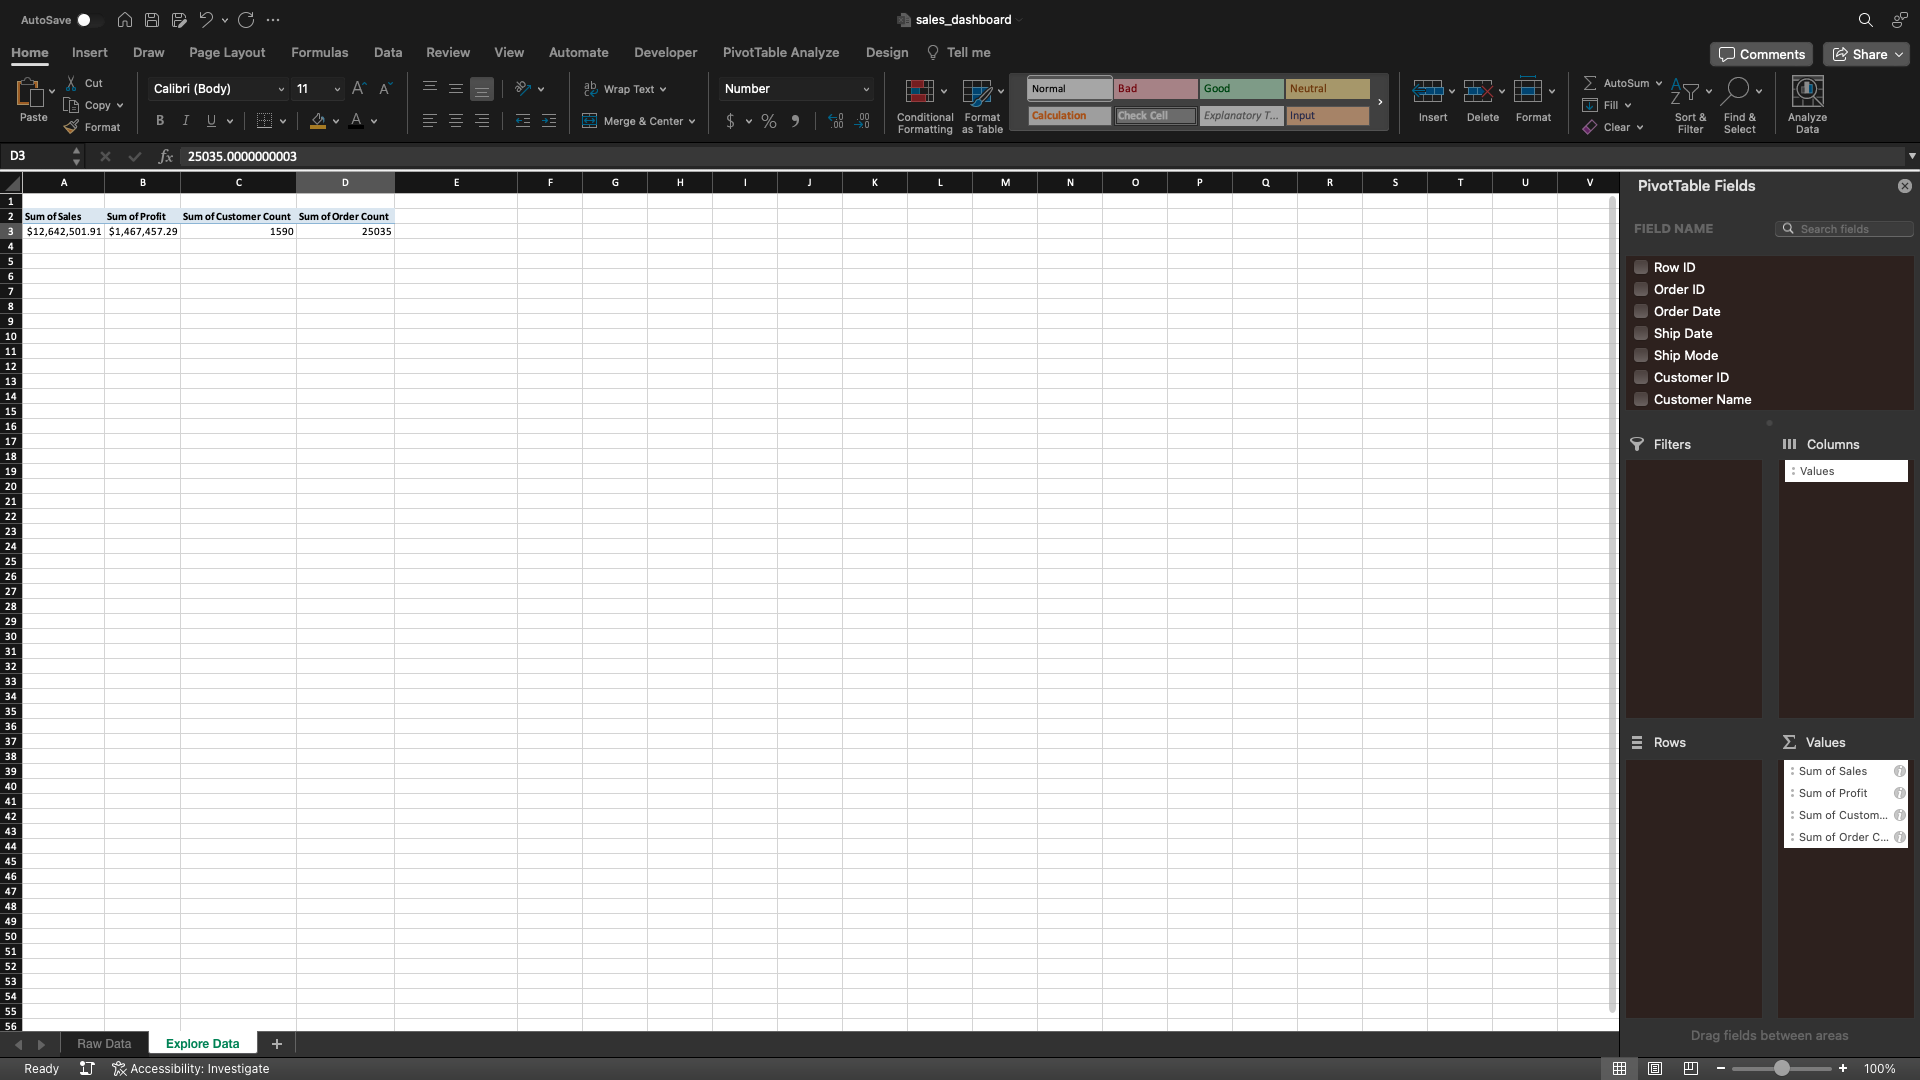
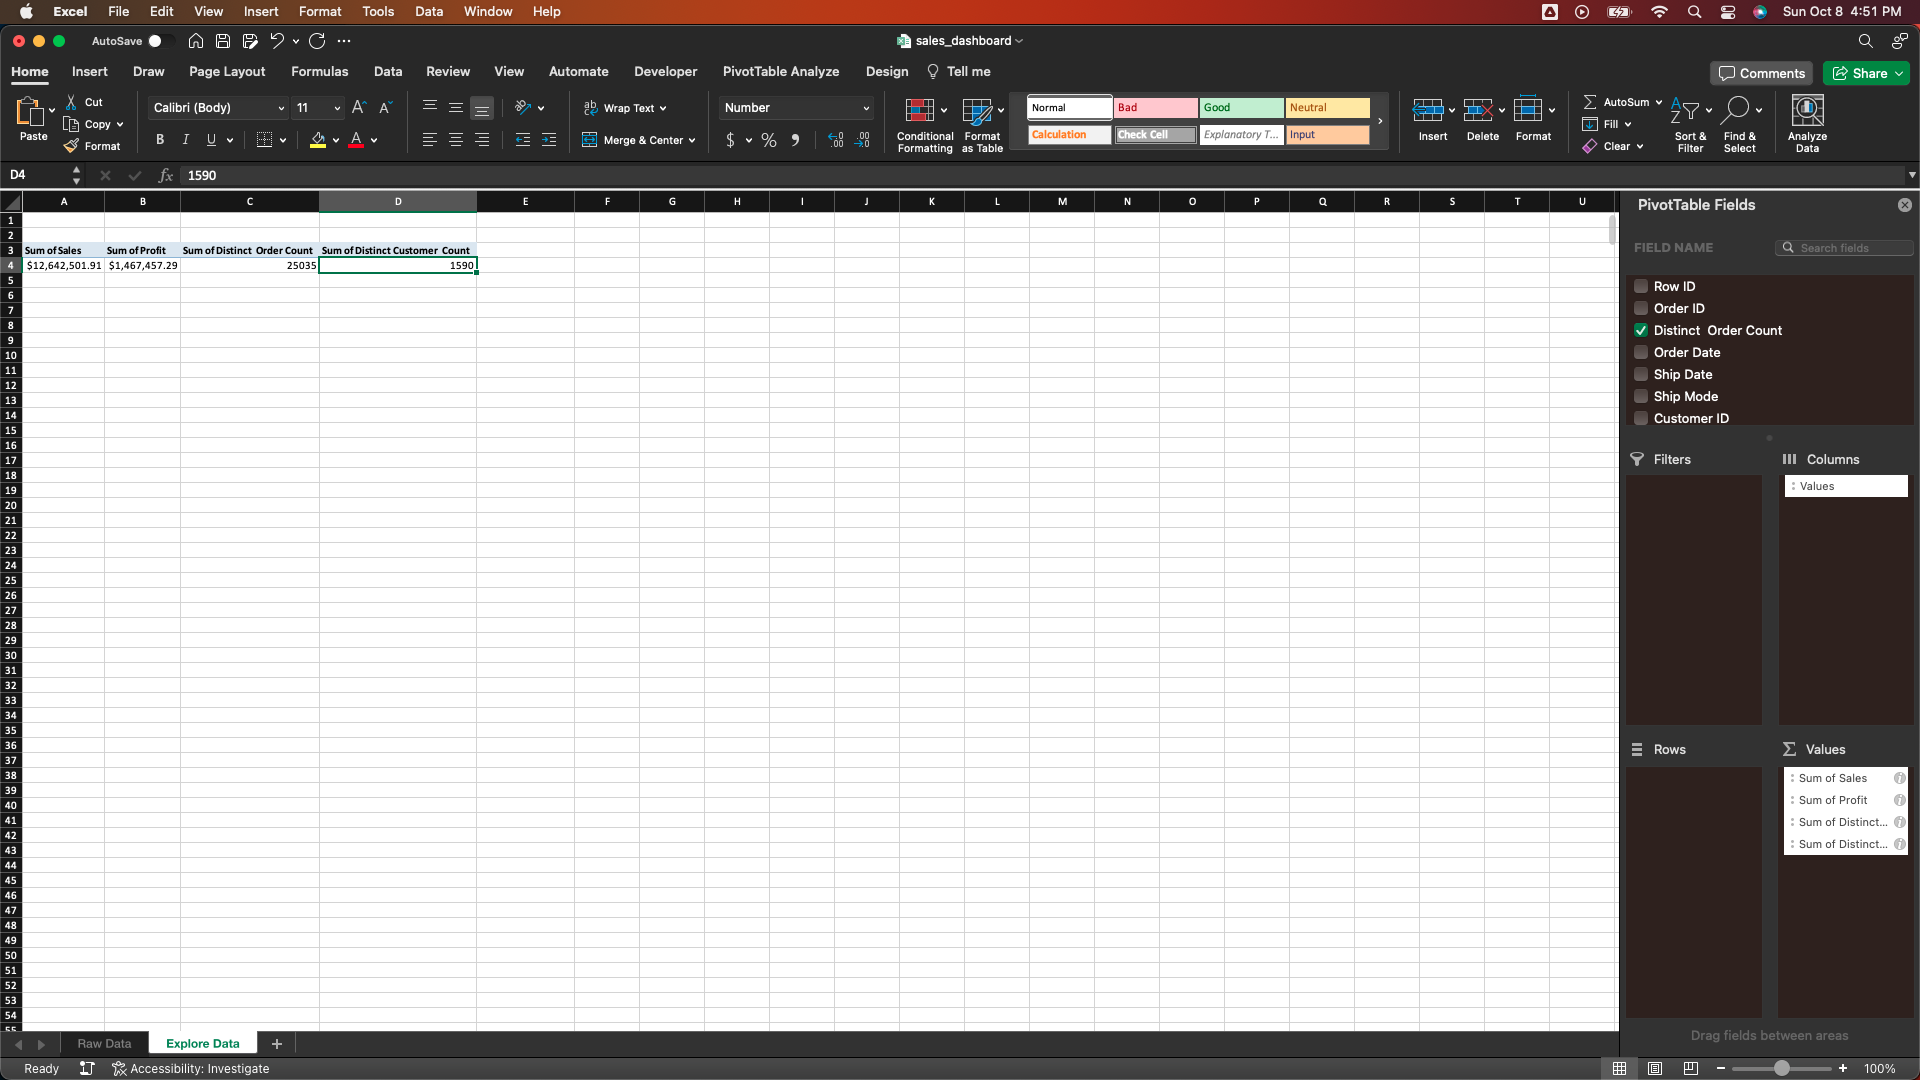
added new image

Changed region(s): [[0.0, 0.0, 1.0, 0.9778], [0.9375, 0.6722, 1.0, 0.7944], [0.9062, 0.3972, 1.0, 0.4583]]

diff --git a/README.md b/README.md
@@ -67,7 +67,7 @@ By summing the values in these column within the pivot table, we can determine t
 
 ![image](images/PivotTable1.png)
 
-In the `Values` section of the PivotTable, drag the columns `Sales`, `Profit`, `Customer Count`, and `Order Count`. Format the sums of both Sales and Profit as `Currency`. Meanwhile, ensure the sums of Customer Count and Order Count are formatted as `Numbers`, rounded to the nearest whole number.
+In the `Values` section of the PivotTable, drag the columns `Sales`, `Profit`, `Distinct Customer Count`, and `Distinct Order Count`. Format the sums of both Sales and Profit as `Currency`. Meanwhile, ensure the sums of Customer Count and Order Count are formatted as `Numbers`, rounded to the nearest whole number.
 
 ![image](images/KPIs.png)
 
